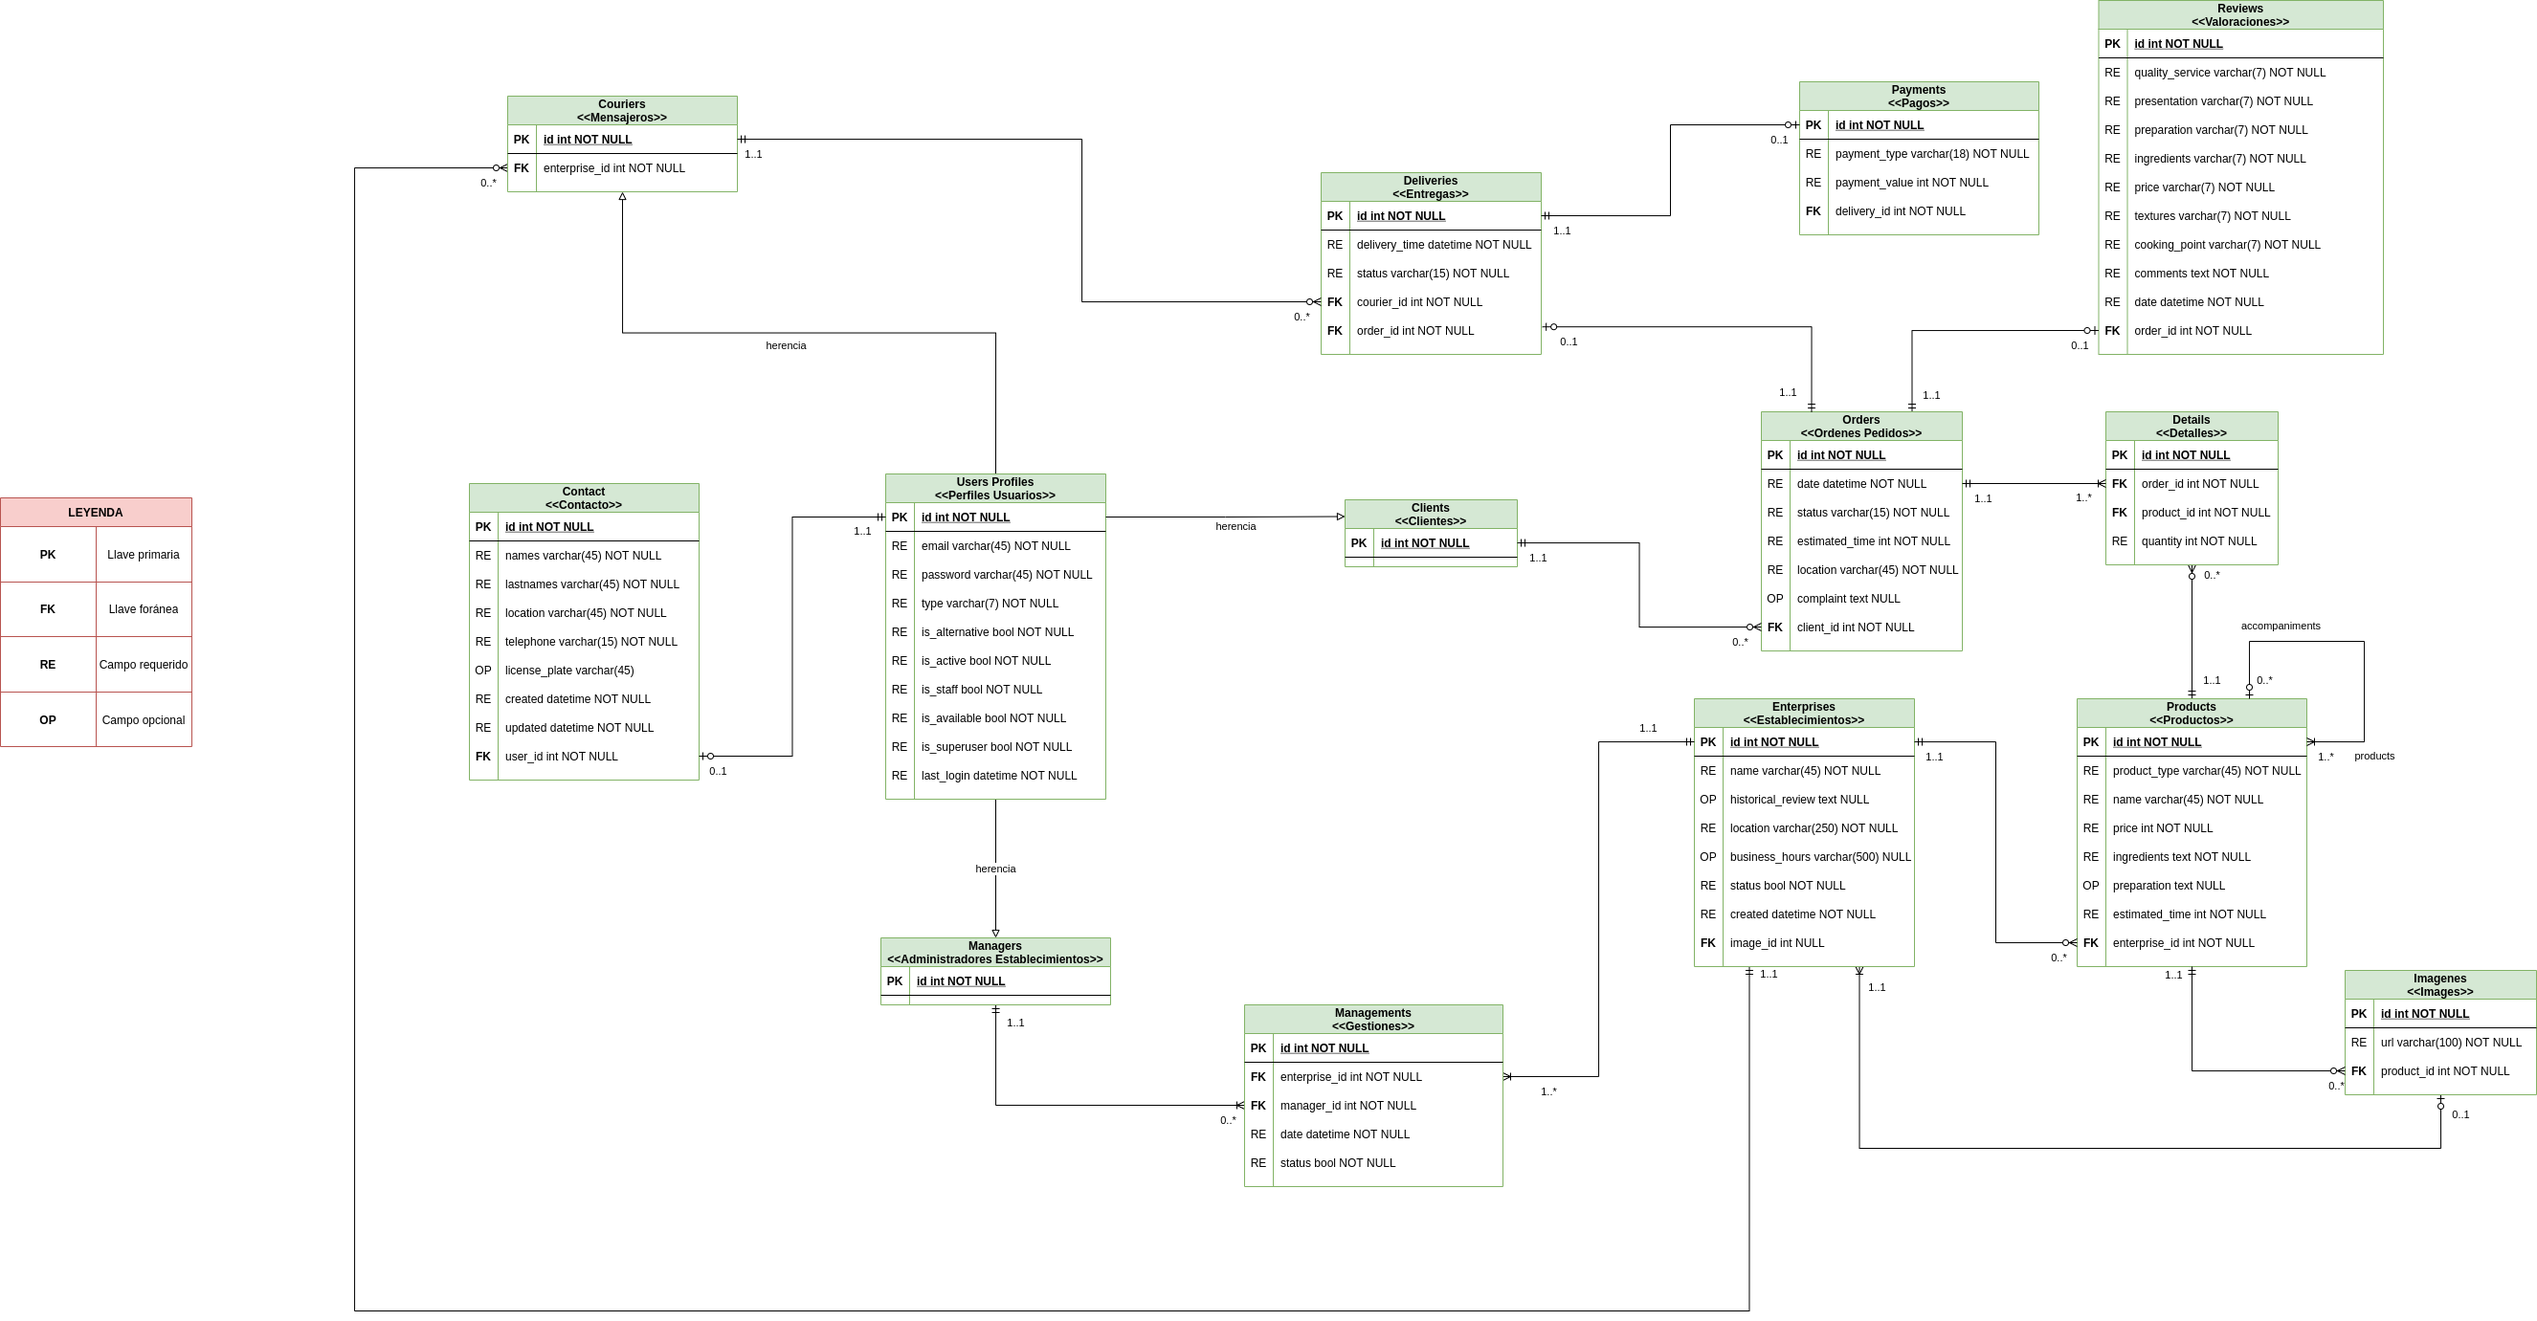
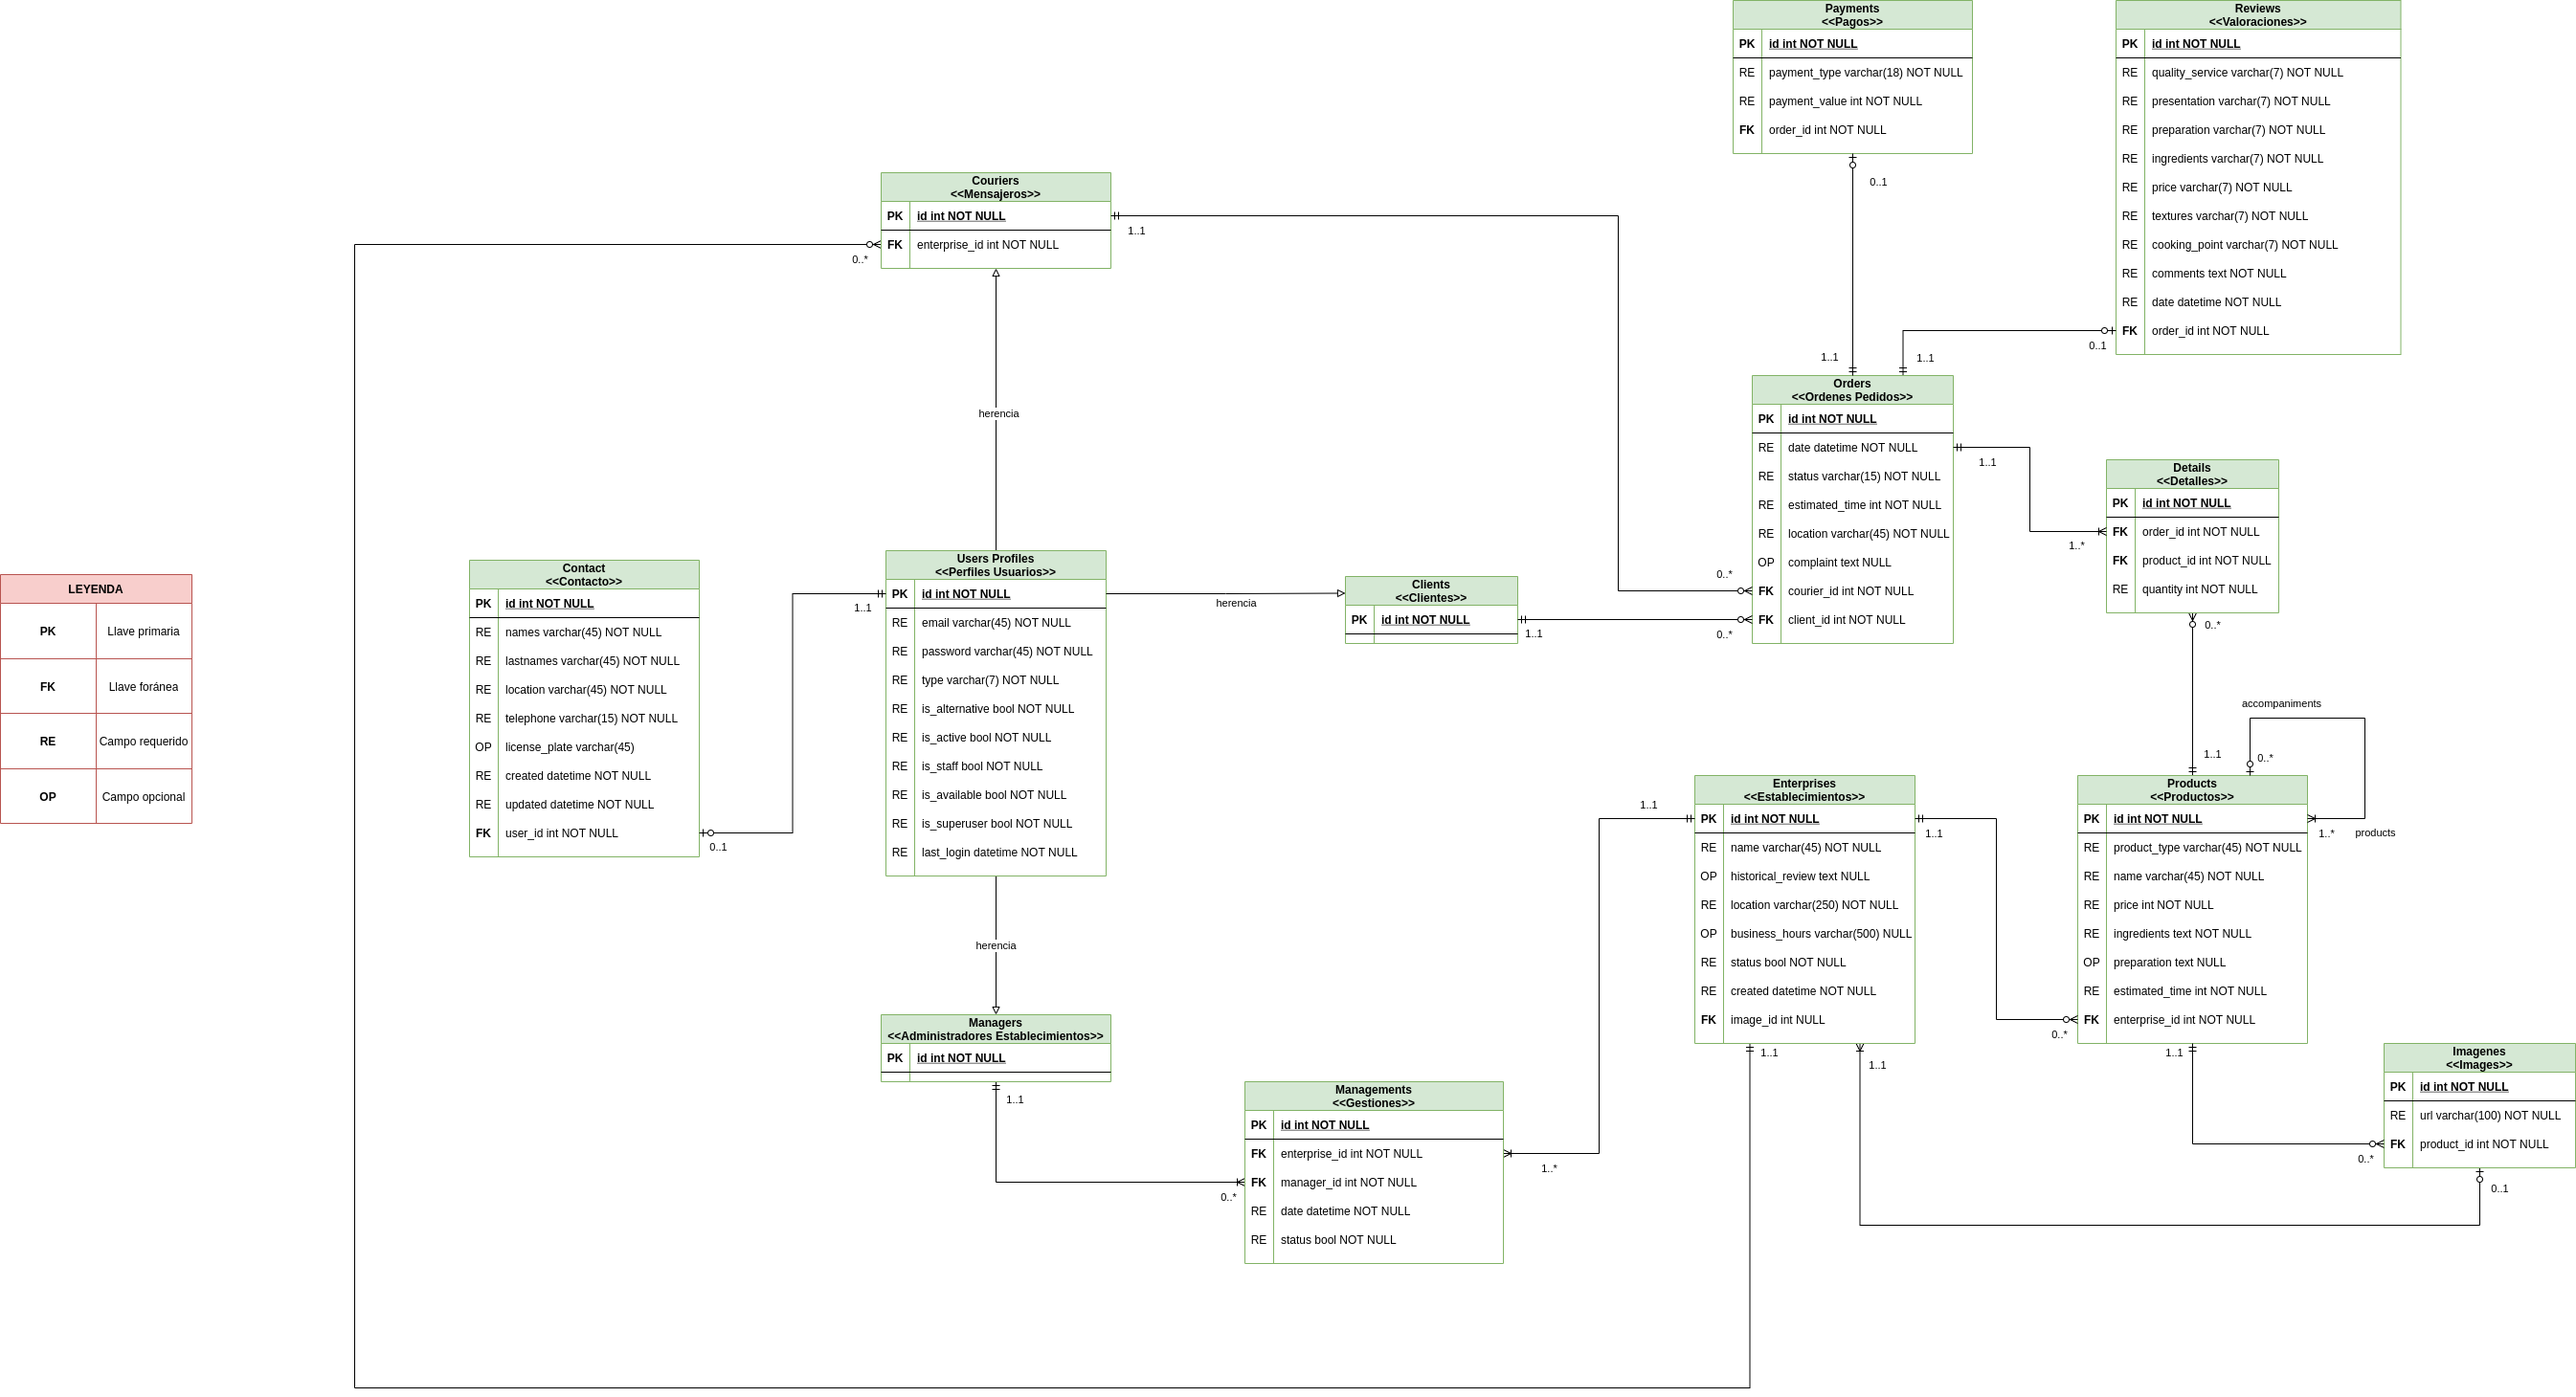
Delete app delivery

diff --git a/gastronomic/orders/models.py b/gastronomic/orders/models.py
@@ -11,7 +11,7 @@ from django.core.exceptions import ValidationError
 from django.db.models.fields import TextField
 
 from products.models import Product
-from users.models import Client
+from users.models import Client, Courier
 from .choices import STATUS_CHOICES, NEW
 
 # Create your models here.
@@ -29,7 +29,7 @@ class Order(Model):
     # Relaciones
     client = ForeignKey(
         Client,
-        related_name='orders',
+        related_name='orders_clients',
         on_delete=CASCADE,
         help_text='cliente'
     )
@@ -39,6 +39,14 @@ class Order(Model):
         through='Detail',
         blank=True,
         help_text='productos'
+    )
+    courier = ForeignKey(
+        Courier,
+        blank=True,
+        null=True,
+        related_name='orders_couriers',
+        on_delete=CASCADE,
+        help_text='mensajero'
     )
 
     def __str__(self) -> str:
@@ -69,7 +77,7 @@ class Detail(Model):
         'Order',
         related_name='details',
         on_delete=CASCADE,
-        help_text='order de pedido'
+        help_text='orden de pedido'
     )
 
     def clean(self) -> None:

diff --git a/gastronomic/api_graphql/schema.py b/gastronomic/api_graphql/schema.py
@@ -14,7 +14,6 @@ from .data.payment.types import PaymentNode
 from .data.courier.types import CourierNode
 from .data.product.types import ProductNode
 from .data.manager.types import ManagerNode
-from .data.delivery.types import DeliveryNode
 from .data.enterprise.types import EnterpriseNode
 from .data.management.types import ManagementNode
 from .data.review.types import ReviewNode
@@ -79,7 +78,6 @@ from .data.image.mutations import (
 class Query(ObjectType):
     """Endpoint para consultar registros"""
 
-    delivery = Node.Field(DeliveryNode)
     courier = Node.Field(CourierNode)
     client = Node.Field(ClientNode)
     contact = Node.Field(ContactNode)
@@ -94,7 +92,6 @@ class Query(ObjectType):
     review = Node.Field(ReviewNode)
     image = Node.Field(ImageNode)
 
-    all_deliveries = DjangoFilterConnectionField(DeliveryNode)
     all_couriers = DjangoFilterConnectionField(CourierNode)
     all_clients = DjangoFilterConnectionField(ClientNode)
     all_contacts = DjangoFilterConnectionField(ContactNode)

diff --git a/gastronomic/payments/models.py b/gastronomic/payments/models.py
@@ -6,7 +6,7 @@ from django.db.models import (
     CASCADE
 )
 
-from deliveries.models import Delivery
+from orders.models import Order
 from .choices import PAYMENT_TYPE_CHOICES
 
 # Create your models here.
@@ -19,11 +19,11 @@ class Payment(Model):
     payment_value = PositiveBigIntegerField(help_text='valor pago')
 
     # Relaciones
-    delivery = OneToOneField(
-        Delivery,
+    order = OneToOneField(
+        Order,
         related_name='payment',
         on_delete=CASCADE,
-        help_text='entrega'
+        help_text='orden pedido'
     )
 
     def __str__(self) -> str:

diff --git a/gastronomic/gastronomic/settings.py b/gastronomic/gastronomic/settings.py
@@ -46,17 +46,16 @@ INSTALLED_APPS = [
     'django.contrib.staticfiles',
     'graphene_django',
     'corsheaders',
+    'cloudinary_storage',
+    'cloudinary',
 
-    'deliveries.apps.DeliveriesConfig',
     'enterprises.apps.EnterprisesConfig',
     'orders.apps.OrdersConfig',
     'payments.apps.PaymentsConfig',
     'products.apps.ProductsConfig',
     'reviews.apps.ReviewsConfig',
     'users.apps.UsersConfig',
-    'profiles.apps.ProfilesConfig',
-    'cloudinary_storage',
-    'cloudinary'
+    'profiles.apps.ProfilesConfig'
 ]
 
 MIDDLEWARE = [

diff --git a/gastronomic/api_graphql/data/payment/inputs.py b/gastronomic/api_graphql/data/payment/inputs.py
@@ -13,10 +13,10 @@ class CreatePaymentInput(InputObjectType):
     """
     payment_type = String(required=True)
     payment_value = String(required=True)
-    
+
     # Relaciones
-    delivery_id = ID(required=True)
-    
+    order_id = ID(required=True)
+
 
 class UpdatePaymentInput(InputObjectType):
     """
@@ -26,3 +26,6 @@ class UpdatePaymentInput(InputObjectType):
     id = ID(required=True)
     payment_type = String()
     payment_value = String()
+
+    # Relaciones
+    order_id = ID()

diff --git a/gastronomic/payments/admin.py b/gastronomic/payments/admin.py
@@ -7,6 +7,6 @@ from .models import Payment
 #admin.site.register(Payment)
 @admin.register(Payment)
 class PaymentAdmin(admin.ModelAdmin):
-    list_display=('payment_type','payment_value','delivery')
-    list_filter=('payment_type','delivery',)
+    list_display=('payment_type','payment_value','order')
+    list_filter=('payment_type','order',)
     search_fields=('payment_type',)

diff --git a/gastronomic/api_graphql/data/order/inputs.py b/gastronomic/api_graphql/data/order/inputs.py
@@ -18,6 +18,7 @@ class CreateOrderInput(InputObjectType):
 
     # Relaciones
     client_id = ID(required=True)
+    courier_id = ID()
 
 
 class UpdateOrderInput(InputObjectType):
@@ -35,3 +36,4 @@ class UpdateOrderInput(InputObjectType):
 
     # Relaciones
     client_id = ID()
+    courier_id = ID()
